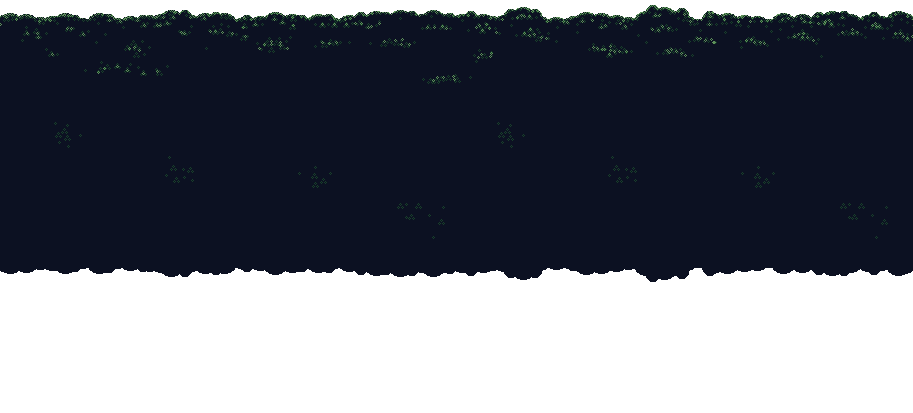
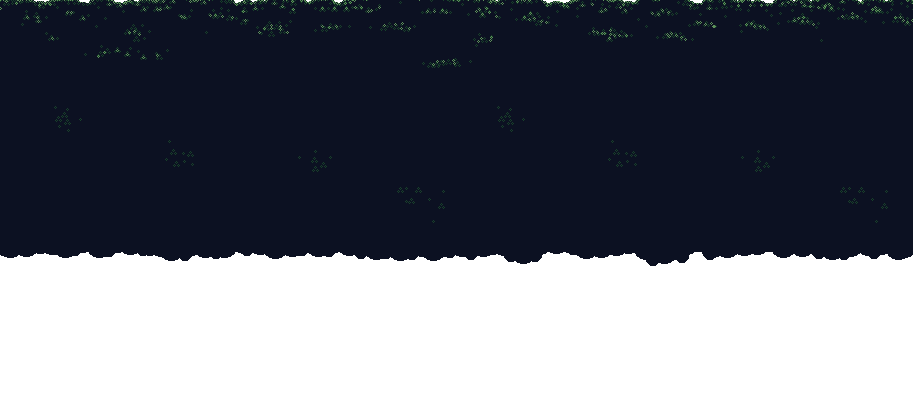
Adjusted background and canvas sizes

diff --git a/Games/OneLastShot/js/Constants/GameConstants.js b/Games/OneLastShot/js/Constants/GameConstants.js
@@ -176,7 +176,7 @@ class SpriteData {
       sourceDimensions: new Vector2(924, 790),
       translation: new Vector2(0, 0),
       rotation: 0,
-      scale: new Vector2(2, 4),
+      scale: new Vector2(2, 3),
       origin: new Vector2(0, 0),
       alpha: 1,
       actorType: ActorType.Background,
@@ -185,12 +185,12 @@ class SpriteData {
     },
     {
       id: "background_3",
-      spriteSheet: document.getElementById("forest-3"),
+      spriteSheet: document.getElementById("layer_3"),
       sourcePosition: new Vector2(0, 0),
       sourceDimensions: new Vector2(924, 790),
       translation: new Vector2(0, 0),
       rotation: 0,
-      scale: new Vector2(2, 4),
+      scale: new Vector2(2, 3),
       origin: new Vector2(0, 0),
       alpha: 1,
       actorType: ActorType.Background,
@@ -199,12 +199,12 @@ class SpriteData {
     },
     {
       id: "background_4",
-      spriteSheet: document.getElementById("forest-4"),
+      spriteSheet: document.getElementById("layer_4"),
       sourcePosition: new Vector2(0, 0),
       sourceDimensions: new Vector2(924, 790),
       translation: new Vector2(0, 0),
       rotation: 0,
-      scale: new Vector2(2, 4),
+      scale: new Vector2(2, 3),
       origin: new Vector2(0, 0),
       alpha: 1,
       actorType: ActorType.Background,
@@ -213,12 +213,12 @@ class SpriteData {
     },
     {
       id: "background_5",
-      spriteSheet: document.getElementById("forest-5"),
+      spriteSheet: document.getElementById("layer_5"),
       sourcePosition: new Vector2(0, 0),
       sourceDimensions: new Vector2(924, 790),
       translation: new Vector2(0, 0),
       rotation: 0,
-      scale: new Vector2(2, 4),
+      scale: new Vector2(2, 3),
       origin: new Vector2(0, 0),
       alpha: 1,
       actorType: ActorType.Background,
@@ -232,7 +232,7 @@ class SpriteData {
       sourceDimensions: new Vector2(924, 790),
       translation: new Vector2(0, 0),
       rotation: 0,
-      scale: new Vector2(2, 4),
+      scale: new Vector2(2, 3),
       origin: new Vector2(0, 0),
       alpha: 1,
       actorType: ActorType.Background,
@@ -246,7 +246,7 @@ class SpriteData {
       sourceDimensions: new Vector2(924, 790),
       translation: new Vector2(0, 0),
       rotation: 0,
-      scale: new Vector2(2, 3),
+      scale: new Vector2(2, 1.7),
       origin: new Vector2(0, 0),
       alpha: 1,
       actorType: ActorType.Background,
@@ -260,7 +260,7 @@ class SpriteData {
       sourceDimensions: new Vector2(924, 790),
       translation: new Vector2(0, 0),
       rotation: 0,
-      scale: new Vector2(2, 3.6),
+      scale: new Vector2(2, 2.9),
       origin: new Vector2(0, 0),
       alpha: 1,
       actorType: ActorType.Background,
@@ -274,7 +274,7 @@ class SpriteData {
       sourceDimensions: new Vector2(924, 790),
       translation: new Vector2(0, 0),
       rotation: 0,
-      scale: new Vector2(2, 3.6),
+      scale: new Vector2(2, 2.9),
       origin: new Vector2(0, 0),
       alpha: 1,
       actorType: ActorType.Background,

diff --git a/Games/OneLastShot/game.html b/Games/OneLastShot/game.html
@@ -34,9 +34,9 @@
     <img id="spritesheet_jungle" src="assets/images/terrain/spritesheet_jungle.png" style="display: none" />
     <img id="layer_1" src="assets/images/background/Layer1.png" style="display: none" />
     <img id="layer_2" src="assets/images/background/Layer2.png" style="display: none" />
-    <img id="forest-3" src="assets/images/background/Layer3.png" style="display: none" />
-    <img id="forest-4" src="assets/images/background/Layer4.png" style="display: none" />
-    <img id="forest-5" src="assets/images/background/Layer5.png" style="display: none" />
+    <img id="layer_3" src="assets/images/background/Layer3.png" style="display: none" />
+    <img id="layer_4" src="assets/images/background/Layer4.png" style="display: none" />
+    <img id="layer_5" src="assets/images/background/Layer5.png" style="display: none" />
     <img id="layer_6" src="assets/images/background/Layer6.png" style="display: none" />
     <img id="layer_7" src="assets/images/background/Layer7.png" style="display: none" />
     <img id="layer_8" src="assets/images/background/Layer8.png" style="display: none" />

diff --git a/Games/OneLastShot/css/styles.css b/Games/OneLastShot/css/styles.css
@@ -9,6 +9,7 @@
   width: 1024;
   height:  410;
   margin: auto;
+  margin-top: 100px;
 }
 
 /*********************** Canvas ****************************/
@@ -17,7 +18,7 @@ canvas {
   position: absolute;
   border: 1px solid black;
   width: 1024;
-  height:  410;
+  height:  510;
   z-index: 1;
 }
 
